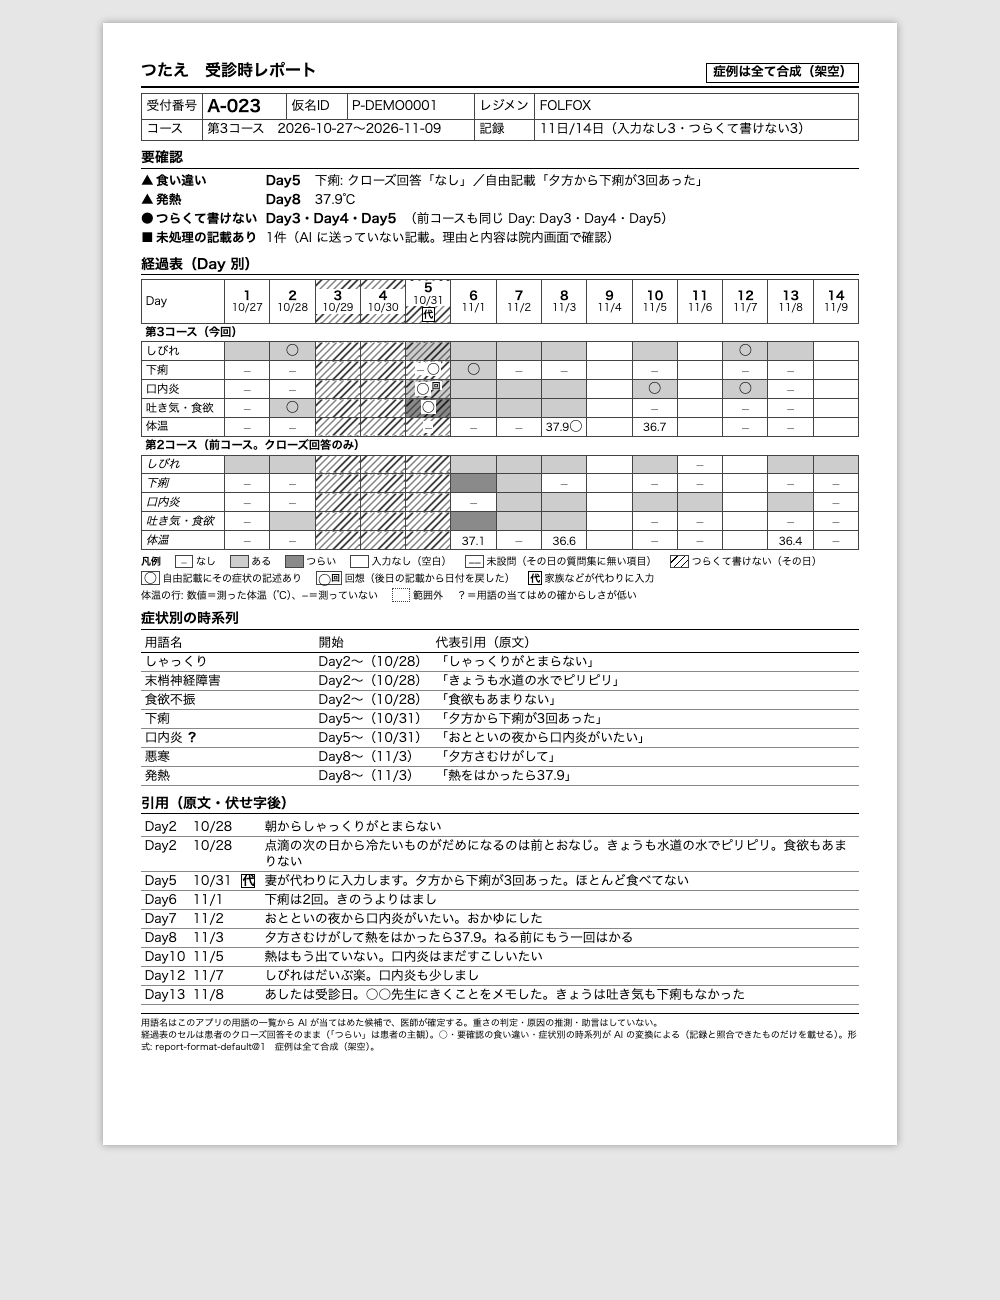
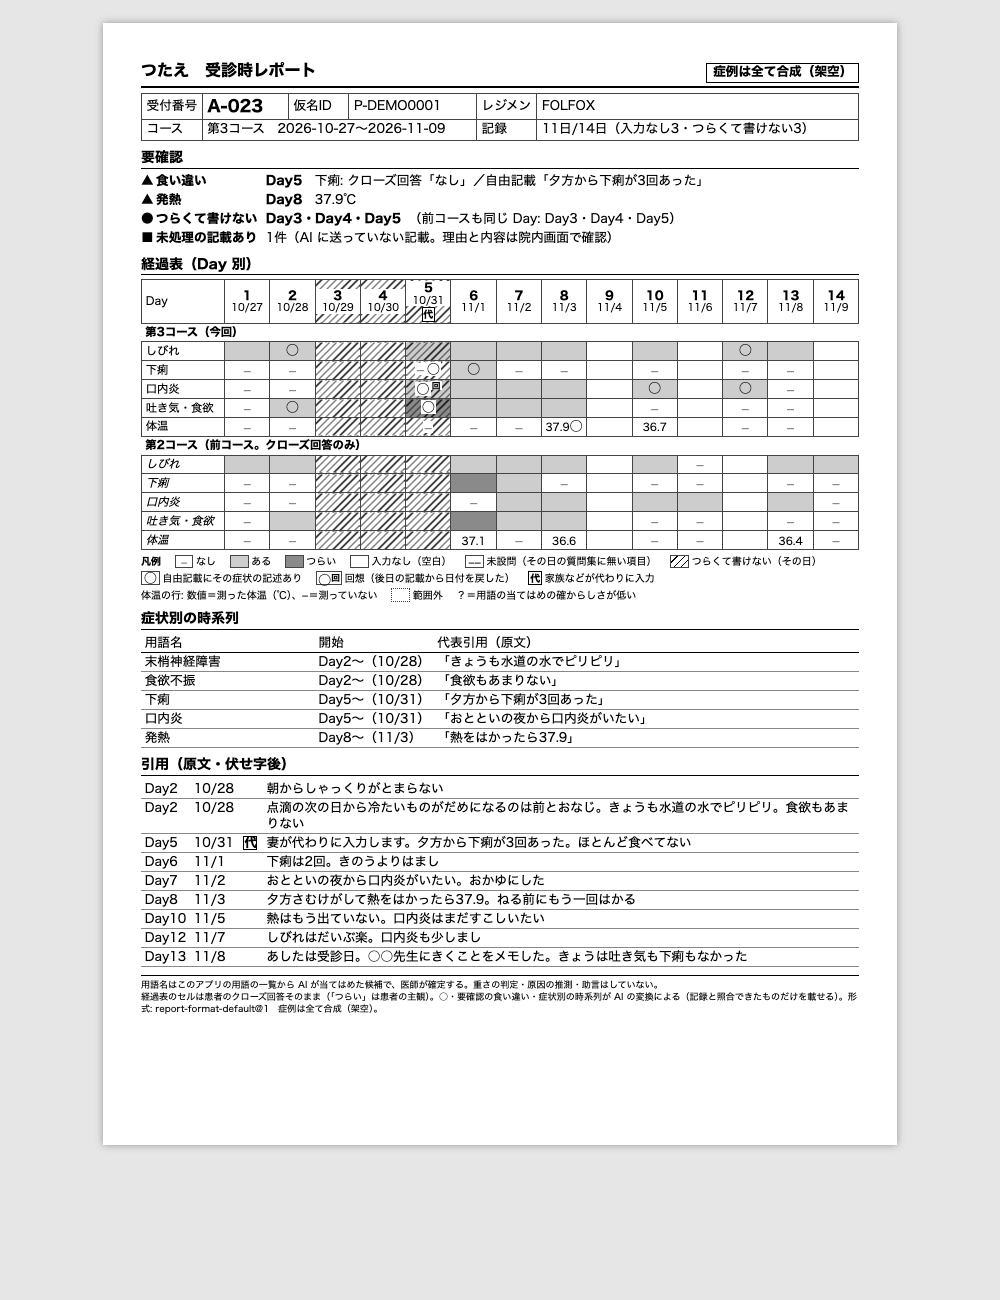
docs: 提出用に README を整え、見本レポートと動画の画像を差し替える
- README: アイコンと名前を中央に置き、デモ動画のリンク、使った技術と動作に必要な
  もの、MIT を足す。「状態」を実測の記録に合わせて分け、空欄の2節と環境変数の一覧を
  消す。作品概要とレジメン別ノートの節は変えない
- 見本レポート: 本物の変換 demo-visit-20261109-1800 から作り直し、説明文を合わせる。
  前の画像は説明文の実行と行も引用も合わなかった
- 動画: 同じ画像に差し替え、reportRegions.ts の枠を合わせる
- .env.example を足し、.gitignore で追跡する。有効な行は必須の3つだけにする

Claude-Session: https://claude.ai/code/session_014KHMgC8SWZ7ozDuYaprqA5

diff --git a/video/src/scenes/reportRegions.ts b/video/src/scenes/reportRegions.ts
@@ -15,8 +15,8 @@ export interface Rect {
 export const REGIONS: Record<ReportFocus, Rect> = {
   alerts: { x: 132, y: 145, w: 736, h: 100 },
   timeline: { x: 132, y: 252, w: 736, h: 340 },
-  symptoms: { x: 132, y: 598, w: 736, h: 192 },
-  quotes: { x: 132, y: 790, w: 736, h: 220 },
+  symptoms: { x: 132, y: 598, w: 736, h: 154 },
+  quotes: { x: 132, y: 752, w: 736, h: 220 },
 };
 
 export const REGION_LABEL: Record<ReportFocus, string> = {
@@ -39,7 +39,7 @@ export const HIGHLIGHTS: Record<ReportFocus, Rect[]> = {
   // Day5 の列（代・回の印がある日）
   timeline: [{ x: 405, y: 276, w: 47, h: 264 }],
   // 症状別の時系列の「口内炎 Day5〜（10/31）『おとといの夜から口内炎がいたい』」
-  symptoms: [{ x: 140, y: 728, w: 722, h: 20 }],
+  symptoms: [{ x: 140, y: 709, w: 722, h: 20 }],
   // 引用の「Day7 11/2 おとといの夜から口内炎がいたい。おかゆにした」
-  quotes: [{ x: 140, y: 909, w: 722, h: 20 }],
+  quotes: [{ x: 140, y: 871, w: 722, h: 20 }],
 };

diff --git a/README.md b/README.md
@@ -1,8 +1,19 @@
-# つたえ — 症例は全て合成です（デモ・評価に実患者のデータは一切使っていません）
+<p align="center">
+  <img src="frontend/public/icon-512.png" alt="つたえのアイコン" width="120">
+</p>
+
+<h1 align="center">つたえ</h1>
+
+<p align="center">抗がん剤治療中の毎日の記録を、医師が決めた形式の A4 一枚にして診察室へ届けるアプリ</p>
+
+<p align="center"><strong>症例は全て合成です（デモ・評価に実患者のデータは一切使っていません）</strong></p>
 
 外来化学療法（FOLFOX/CAPOX）中の消化器がん患者が毎日スマホで記録し、受診時にアプリの受診タブで受付番号を入れて送ると、Claude が記録を「暦日・コース日数・標準用語・原文引用」つきの時系列に直し、**医師が決めた形式の A4 一枚**として診察室に届けるアプリです。記録の中身はスマホに置き、サーバーには印刷までの間だけ置きます。患者のスマホに AI の文は出ません。
 
-> Built with Claude (Code): Japan 2026 提出作品（ソロ、期間中の新規制作）。コードは全て Claude Code（Claude Opus）が書き、OpenAI Codex は読み取り専用のレビューにだけ使いました。
+> Built with Claude (Code): Japan 2026 提出作品（ソロ、期間中の新規制作。初コミットは 2026-11-03 18:06 JST）。コードは全て Claude Code（Claude Opus）が書き、OpenAI Codex は読み取り専用のレビューにだけ使いました。
+
+## デモ動画
+[デモ動画を見る（YouTube、2分55秒）](https://youtu.be/UzpKCuJvz3w)
 
 ## 作品概要
 このプロジェクトは、医師が、がん化学療法中の患者の副作用（有害事象）の症状を、短時間で抜けを減らして把握するためのものです。
@@ -27,7 +38,9 @@
 | 仕様 | `docs/spec.md`（v1.0、2026-11-03 承認） |
 | テスト件数 | 7229件 通過 / 全7229件（backend 4603/4603、frontend 2626/2626。`make test` が自動更新。API を呼ぶテストはキーが無いと skip） |
 | 精度評価 | 3回実測（`docs/eval/2026-11-04.md`・`2026-11-04-2.md`・`2026-11-06.md`、合成2人・4コース・出来事61件）。最新（今の用語の一覧）: 日付 91.8%、用語 91.8%、食い違い 再現率 100%・適合率 100%、改善中→なし 0件（9件中）、否定→あり 0件（18件中）、引用 100%。失敗 5 件は全て用語の予測が無かったもの（悪寒・食欲不振2件・味覚異常・疲労）。前回の用語 75.4% からの上昇は、しびれの3語を1語にまとめて当て分けの失敗 11 件が無くなった分で、変換の精度が上がったという意味ではない |
-| 動作確認 | ブラウザ（スマホ幅・院内 PC 幅）で 登録 → 記録 → 38.0℃ の案内 → 履歴 → 受付 → 印刷待ち → レポート → 変換ログ → 未処理 → 設定の書き換えと承認・却下 → 印刷済み → コース登録 を通しで確認（API を呼ばない構成で5回。記録をスマホに移す前の形）。**本物の Claude**: Agent SDK のスモーク7項目が全て OK、デモ患者の変換が1回で成功（ready・AI変換なしでない・H2 の拒否0回、2026-11-04）。一文で頼む D4（当時は regimen-folfox に質問を足す書き換え。今はレポートの形式だけ）の本物の書き換えも1回で成功（pending・差分 2 行追加・H3 の拒否0回・約 0.10 ドル、2026-11-04。`docs/eval/demo-skill-change-20261104-0719.diff`）。新しい D4 レジメン（チャットで作る）も FOLFIRI＋BV で2回通した（どちらも1往復・未入力0・ツール3回・拒否0・H4 の拒否0、一時の写しの上で採用まで。32.8 秒・約 0.12 ドルと 36.0 秒・約 0.13 ドル、2026-11-05。`docs/eval/demo-regimen-20261105-0857.json`・`demo-regimen-20261105-2025.json`）。レジメンの画面のブラウザでの通しは未実施。毎日の通知・スマホ保存・受診タブは自動テストまでで、実機とブラウザの通しは未確認 |
+| 本物の Claude での確認 | Agent SDK のスモーク7項目が全て OK、デモ患者の変換が成功（2026-11-04 と 2026-11-06。`docs/eval/demo-visit-20261109-0703.json`・`demo-visit-20261109-1800.json`）。D4 レポートの形式の書き換えが1回で成功（2026-11-04。`docs/eval/demo-skill-change-20261104-0719.diff`）。D4 レジメンを FOLFIRI＋BV で2回通した（2026-11-05。`docs/eval/demo-regimen-20261105-0857.json`・`demo-regimen-20261105-2025.json`） |
+| ブラウザでの確認 | スマホ幅・院内 PC 幅で 登録 → 記録 → 受付 → レポート → 印刷済み などを、API を呼ばない構成で通した。スマホ保存への移行後も、Chrome のスマホ表示で通した（2026-11-06。本物の Claude は呼ばない構成）。D4 レジメンの画面を通しで確かめた記録は無い |
+| 実機での確認 | 作者の iPhone で、通知（ロック画面への到着・押して開く・バッジ・指定した時刻・記録した日に届かない・オフで届かない）とスマホ保存（閉じても再起動しても残る・受診タブからレポートまで・印刷後の断り）を確かめた（2026-11-06）。**未確認**: Android の実機、2台目のスマホの実機、消音モードの音、再起動の後の通知、`navigator.storage.persist()` の結果、アイコンを消すと記録が消えるか |
 
 ## 何をするか
 
@@ -47,19 +60,24 @@
 | D5 変換ログ | Hook の発火・サブエージェントの動き・所要時間（文面は出さない） |
 | D6 未処理 | 伏せ字漏れの疑いで Claude に送らなかった記録の原文（院内画面だけ。紙には件数だけ） |
 
-## なぜ作るか（先生が書く）
-- 誰が、どの場面で、どれくらい困っているか
-- 聞き取り 約2分 → 約20秒（実感値、未測定）
+## 使った技術と動作に必要なもの
 
-## 既存品（Juno、国内 ePRO）との違い（先生が書く）
-`docs/spec.md` 14節の比較表をここに置く。
+| 項目 | 内容 |
+|---|---|
+| バックエンド | Python 3.12 以上、FastAPI、Uvicorn、pydantic、Jinja2、SQLite、pywebpush 2.5.0 |
+| AI | Claude Agent SDK（`claude-agent-sdk` 0.2.177）。既定のモデルは主エージェント `claude-opus-5-5`、サブエージェント `claude-sonnet-5-5` |
+| フロントエンド | React 18.3.1、TypeScript 5.6.3、Vite 5.4.8、react-router-dom 6.26.2。患者画面はホーム画面に追加して使うウェブアプリ |
+| テスト | pytest、Vitest、Testing Library |
+| デモ動画の制作 | Remotion 4.0.540（`video/`。アプリの動作には不要） |
+| 動作に必要なもの | Python 3.12 以上、Node.js と npm。変換と D4 には Anthropic の API キーが要る（秘密の値の項目名は `.env.example`） |
+| 開発と確認の環境 | macOS と iPhone で確認した。他の OS と Android の実機は未確認 |
 
 ## なぜ紙か
 電子カルテ連携なしで医師の手元に届く。患者は AI の文を見ない。レポートは `ReportData` から Jinja2 で**決定的に**描く（AI は HTML を書かない）。A4 一枚・モノクロで、通常版と「AI変換なし」版の両方が1ページに収まることを確かめている。
 
 ![受診時レポートの見本（A4 一枚）](docs/images/sample-report.png)
 
-*本物の Claude（主エージェント claude-opus-5-5、3役 claude-sonnet-5-5）が作ったデモ患者（合成）の第3コースのレポート（2026-11-04、`scripts/run_demo_visit.py`。所要83秒・約0.47ドル・H2 の拒否0回。結果は `docs/eval/demo-visit-20261109-0703.html|json`）。回想（11/2 の「おとといの夜から口内炎」を Day5 に戻す）・食い違い（Day5 の下痢）・否定と改善の区別を、医師が直さずに出力した。*
+*本物の Claude が作ったデモ患者（合成）の第3コースのレポート（2026-11-06、`scripts/run_demo_visit.py`。結果は `docs/eval/demo-visit-20261109-1800.html|json`）。回想（11/2 の「おとといの夜から口内炎」を Day5 に戻す）・食い違い（Day5 の下痢）・否定と改善の区別（Day10 の「熱はもう出ていない」、Day6 の「きのうよりはまし」）を、医師が直さずに出力した。しゃっくりと悪寒はこの回の症状別の時系列に入らず、原文は引用の段で読める。*
 
 ## Claude の使い方
 ```mermaid
@@ -130,6 +148,8 @@ flowchart LR
 - 検出漏れはゼロにできない（下の「既知の限界」）。**本プロジェクトは合成データだけで運用し、実患者のデータを送らない**。実運用では本人同意と送る情報の最小化が前提（要配慮個人情報）
 
 ## 動かし方（開発）
+起動の前に、`.env.example` を `.env` に写して値を入れる（`.env` はコミットしない）。変換と D4 には API キーが要る。`DOCTOR_PASSWORD` を空のままにすると医師画面にログインできず、`TSUTAE_SECRET` を空のままにすると Cookie の署名鍵が空になるので、どちらも値を決める。手順 3 の `TSUTAE_DB` は使う DB、`TSUTAE_TODAY` はデモ用に固定する「今日」。
+
 ```bash
 # 1. 準備（Python 3.12）
 python3.12 -m venv .venv && .venv/bin/pip install -e ".[dev]"
@@ -144,6 +164,10 @@ TSUTAE_DB=data/device.db TSUTAE_DEMO_TOOLS=1 TSUTAE_TODAY=2026-11-09 make dev-ap
 make dev-web                                                                        # http://127.0.0.1:5173
 ```
 - 記録を入れるのはスマホ（ブラウザ）の側。設定の「見本の記録を入れる」で、デモ患者の合成データを端末に入れてから、受診タブで受付番号を入れて送る。`make seed`（`--device-records` なし。記録をサーバーの DB にも入れる）の DB で見本を送ると、受付で二重に数えるので、新しい DB を作る
+
+<details>
+<summary>スマホと通知の試し方（詳しい手順）</summary>
+
 - スマホで試す（同じ Wi-Fi）: 登録用 QR の URL が Mac の IP を指すようにする。localhost 以外を指すときは、既定の鍵・パスワードのままだと起動が止まる
   ```bash
   TSUTAE_DB=data/device.db TSUTAE_DEMO_TOOLS=1 TSUTAE_TODAY=2026-11-09 TSUTAE_PUBLIC_BASE_URL=http://<Mac の IP>:5173 \
@@ -178,9 +202,11 @@ make dev-web                                                                    
   - Funnel は使わない。全世界に公開され、公開リポジトリに載る `P-DEMO0001` で受付を送られると Claude の費用がかかる。Serve でも撮影の前後以外は止める（`tailscale serve reset`。導入時に確かめる）
   - iPhone の VPN がオフだと、アプリを開いても通知を押しても画面が開かない。撮影中はステータスバーに VPN の印が出る
 - ホーム画面に置く: iPhone は Safari の共有メニューの「ホーム画面に追加」、Android は Chrome のメニューの「ホーム画面に追加」。アイコンから全画面で開く。iPhone はホーム画面のアプリと Safari で Cookie・localStorage・記録の保存先が別なので、Safari（ホーム画面の外）では全ての患者画面で追加の案内だけを出し、記録させない。アプリの初回は「このスマホは登録されていません」の画面で番号を入れて登録する（番号は医師画面の登録用QRの隣の「登録の番号」。デモ患者は `P-DEMO0001`）。番号の入力は iPhone の実機で確認済み。Android は実機で未確認で、全画面になるには HTTPS が要る見込み
+
+</details>
+
 - 患者: `http://127.0.0.1:5173/register?pid=P-DEMO0001`（デモ患者。受付番号は例えば `A-023`。PC のブラウザなら案内は出ない）
-- 医師: `http://127.0.0.1:5173/doctor/login`（パスワードは `DOCTOR_PASSWORD`、既定 `demo-doctor`）
-- 環境変数（`.env` に書く）: `ANTHROPIC_API_KEY`（変換と D4 に必須）、`DOCTOR_PASSWORD`、`TSUTAE_SECRET`（Cookie の署名鍵。本番では必ず変える）、`TSUTAE_TODAY`（デモ用に「今日」を固定）、`TSUTAE_DB`、`TSUTAE_MODEL`（既定 `claude-opus-5-5`）、`TSUTAE_SUBAGENT_MODEL`（既定 `claude-sonnet-5-5`）、`TSUTAE_PUBLIC_BASE_URL`（登録用 QR の URL。https なら Cookie に `Secure`）、`TSUTAE_VAPID_PUBLIC_KEY`・`TSUTAE_VAPID_PRIVATE_KEY`・`TSUTAE_VAPID_SUBJECT`（通知の鍵。無ければ通知だけ使えない）、`TSUTAE_DEMO_TOOLS`（`1` のときだけ、デモ患者の設定に撮影用の見本のボタンと経路を出す）
+- 医師: `http://127.0.0.1:5173/doctor/login`（パスワードは `.env` に入れた値）
 - テスト / lint: `make test` / `make lint`
 - Agent SDK の動作確認: `make smoke`／精度評価: `make eval`（どちらも API を呼ぶ）
 - 見本のレポート: `.venv/bin/python scripts/render_sample_report.py [--fallback]`
@@ -243,4 +269,4 @@ make dev-web                                                                    
 - 有害事象の用語名は、このアプリの用語の一覧（`backend/tsutae/data/ctcae_terms.json`）を使う
 
 ## ライセンス
-未定（公開リポジトリ化の際に決める）
+[MIT](LICENSE)

diff --git a/docs/decisions.md b/docs/decisions.md
@@ -728,3 +728,16 @@
 | 先生の声の実測（合計 148.26 秒）で案 B の秒を 17,14,15,12,19,14,13,16,14,11,7,23 に配り直す（合計 175 秒のまま）。字幕の塊の頭は Whisper の語の時刻（`video/scripts/voice_cues.py`。声はこのパソコンの外へ送らない）に合わせ、演出の割合の基準は声の長さにする | 字幕を字数の割合で場面全体に配ると、声が先に終わる分だけ字幕が遅れる。割合は声の位置に合わせてあるので、基準を声の長さにすれば個別に直さずに合う | 技術判断 |
 | 字幕の文を実際の声に合わせる: 5 場面「外来化学療法の患者さん」、8 場面「Day5 の口内炎と記載されます」、12 場面は「なお、症例は全て合成です」を「ご視聴」の直前へ。4 場面は先生が「要確認」で録り直した | 先生が読みやすく直して録った。字幕と声を食い違わせない | 先生の録音に合わせた |
 | 本番の動画は `video/out/demo-b.mp4`。Remotion の書き出しの音声だけ ffmpeg で 3 dB 上げる（-18 LUFS 前後、ピーク -1 dB 前後）。映像は再エンコードしない | 書き出しのままでは -21.2 LUFS で小さく、ピークに余裕があった | 技術判断 |
+
+### 提出用の README と見本レポートの差し替え（2026-11-07 夜）
+
+| 決めたこと | 理由 | 誰が |
+|---|---|---|
+| 見本レポートの画像を、本物の Claude の変換 `docs/eval/demo-visit-20261109-1800.html`（2026-11-06）から作り直す。README の説明文もこの実行に合わせ、動画の画像と枠の座標（`video/src/scenes/reportRegions.ts`）を差し替えて書き出し直す | 今までの画像は説明文の 11/4 の実行（`0703`）と行も引用も合わなかった。語を置き換えた未追跡の `1719` と揃うが、実行そのままの出力ではない。`1800` は今の用語の一覧で、語の置き換えをしていない | 先生の判断 |
+| 新しい画像では、しゃっくりと悪寒が症状別の時系列に入らない（原文は引用の段にある）。README の説明文にそう書く。所要時間と費用は記録が無いので書かない | 実測だけを書く。`docs/eval/2026-11-06.md` の失敗例とも同じ傾向 | 技術判断 |
+| ライセンスは MIT にする（`LICENSE`。著作権者の表記は YataHawk） | 大会はリポジトリの公開（オープンソース）が必須。審査員の目で見た改善点 A3 の案 | 先生の判断 |
+| README の「なぜ作るか」「既存品との違い」の空欄の節を消す。`docs/spec.md` 14 節の比較表は載せない | 作品概要と重なる。他社製品についての記述をこちらで確かめられていない | 先生の判断 |
+| 英語版は作らない | 必須ではない。`scripts/update_readme_count.py` と `backend/tests/test_serve_docs.py` が `README.md` を読むので、改名もしない | 先生の判断 |
+| `.env.example` を足し、`.gitignore` に `!.env.example` を足す。有効な行は必須の3つだけで、残りは行頭の `#` で止める | `KEY=` は空の文字列として読まれ、既定値が効かない（`TSUTAE_PIPELINE_TIMEOUT_S=` は起動時に `float("")` で落ちる） | 技術判断 |
+| 動画の通知の場面（`video/public/screens/F11-1.png`。実機の画面）は旧アイコンのまま出す。後で差し替えられれば差し替える | アイコンの差し替えが動画より後に入った。撮り直しには実機での撮影が要る | 先生の判断 |
+| 空の `DOCTOR_PASSWORD` を止める修正はしない | 提案の前提が誤りだった。`check_doctor_password` は空の入力を弾くので、空の設定では誰もログインできない（実行して確かめた）。README と `.env.example` に注意を書くだけにする | 技術判断 |
